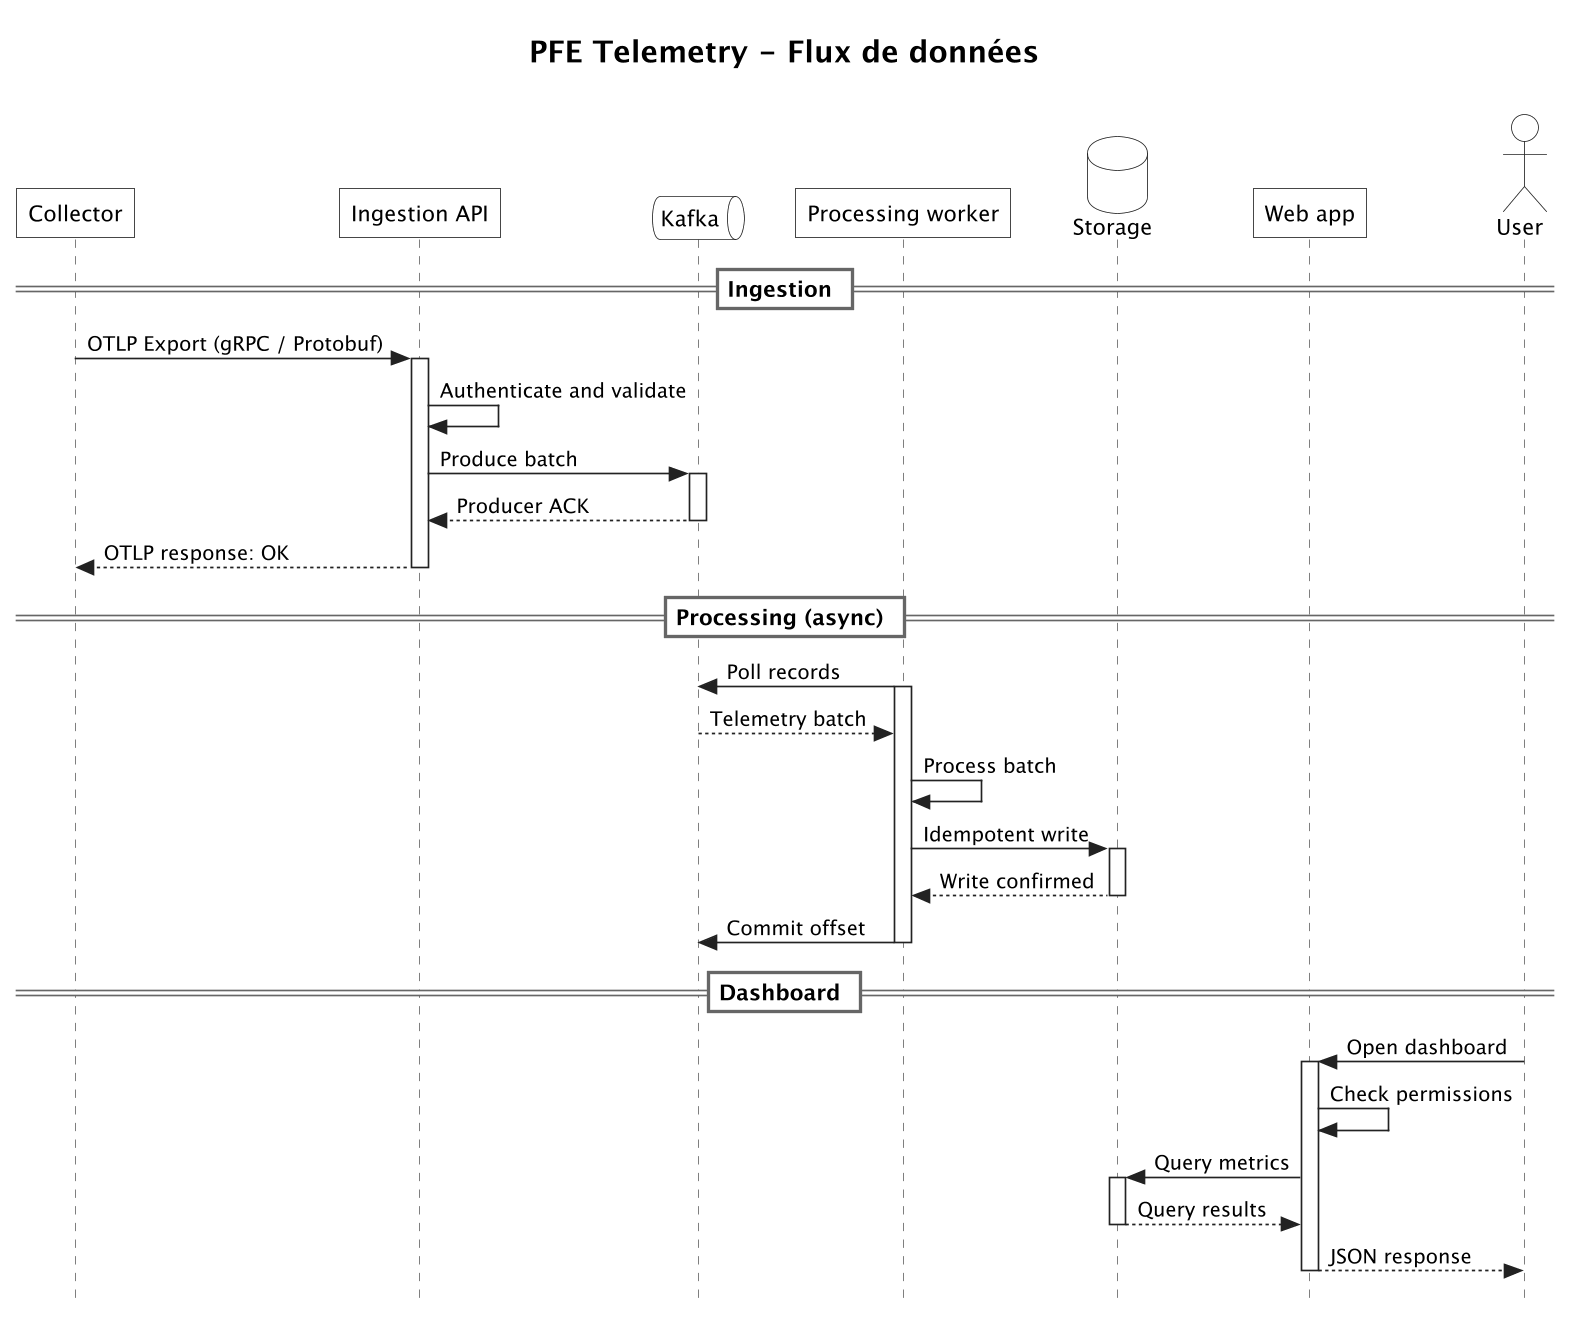
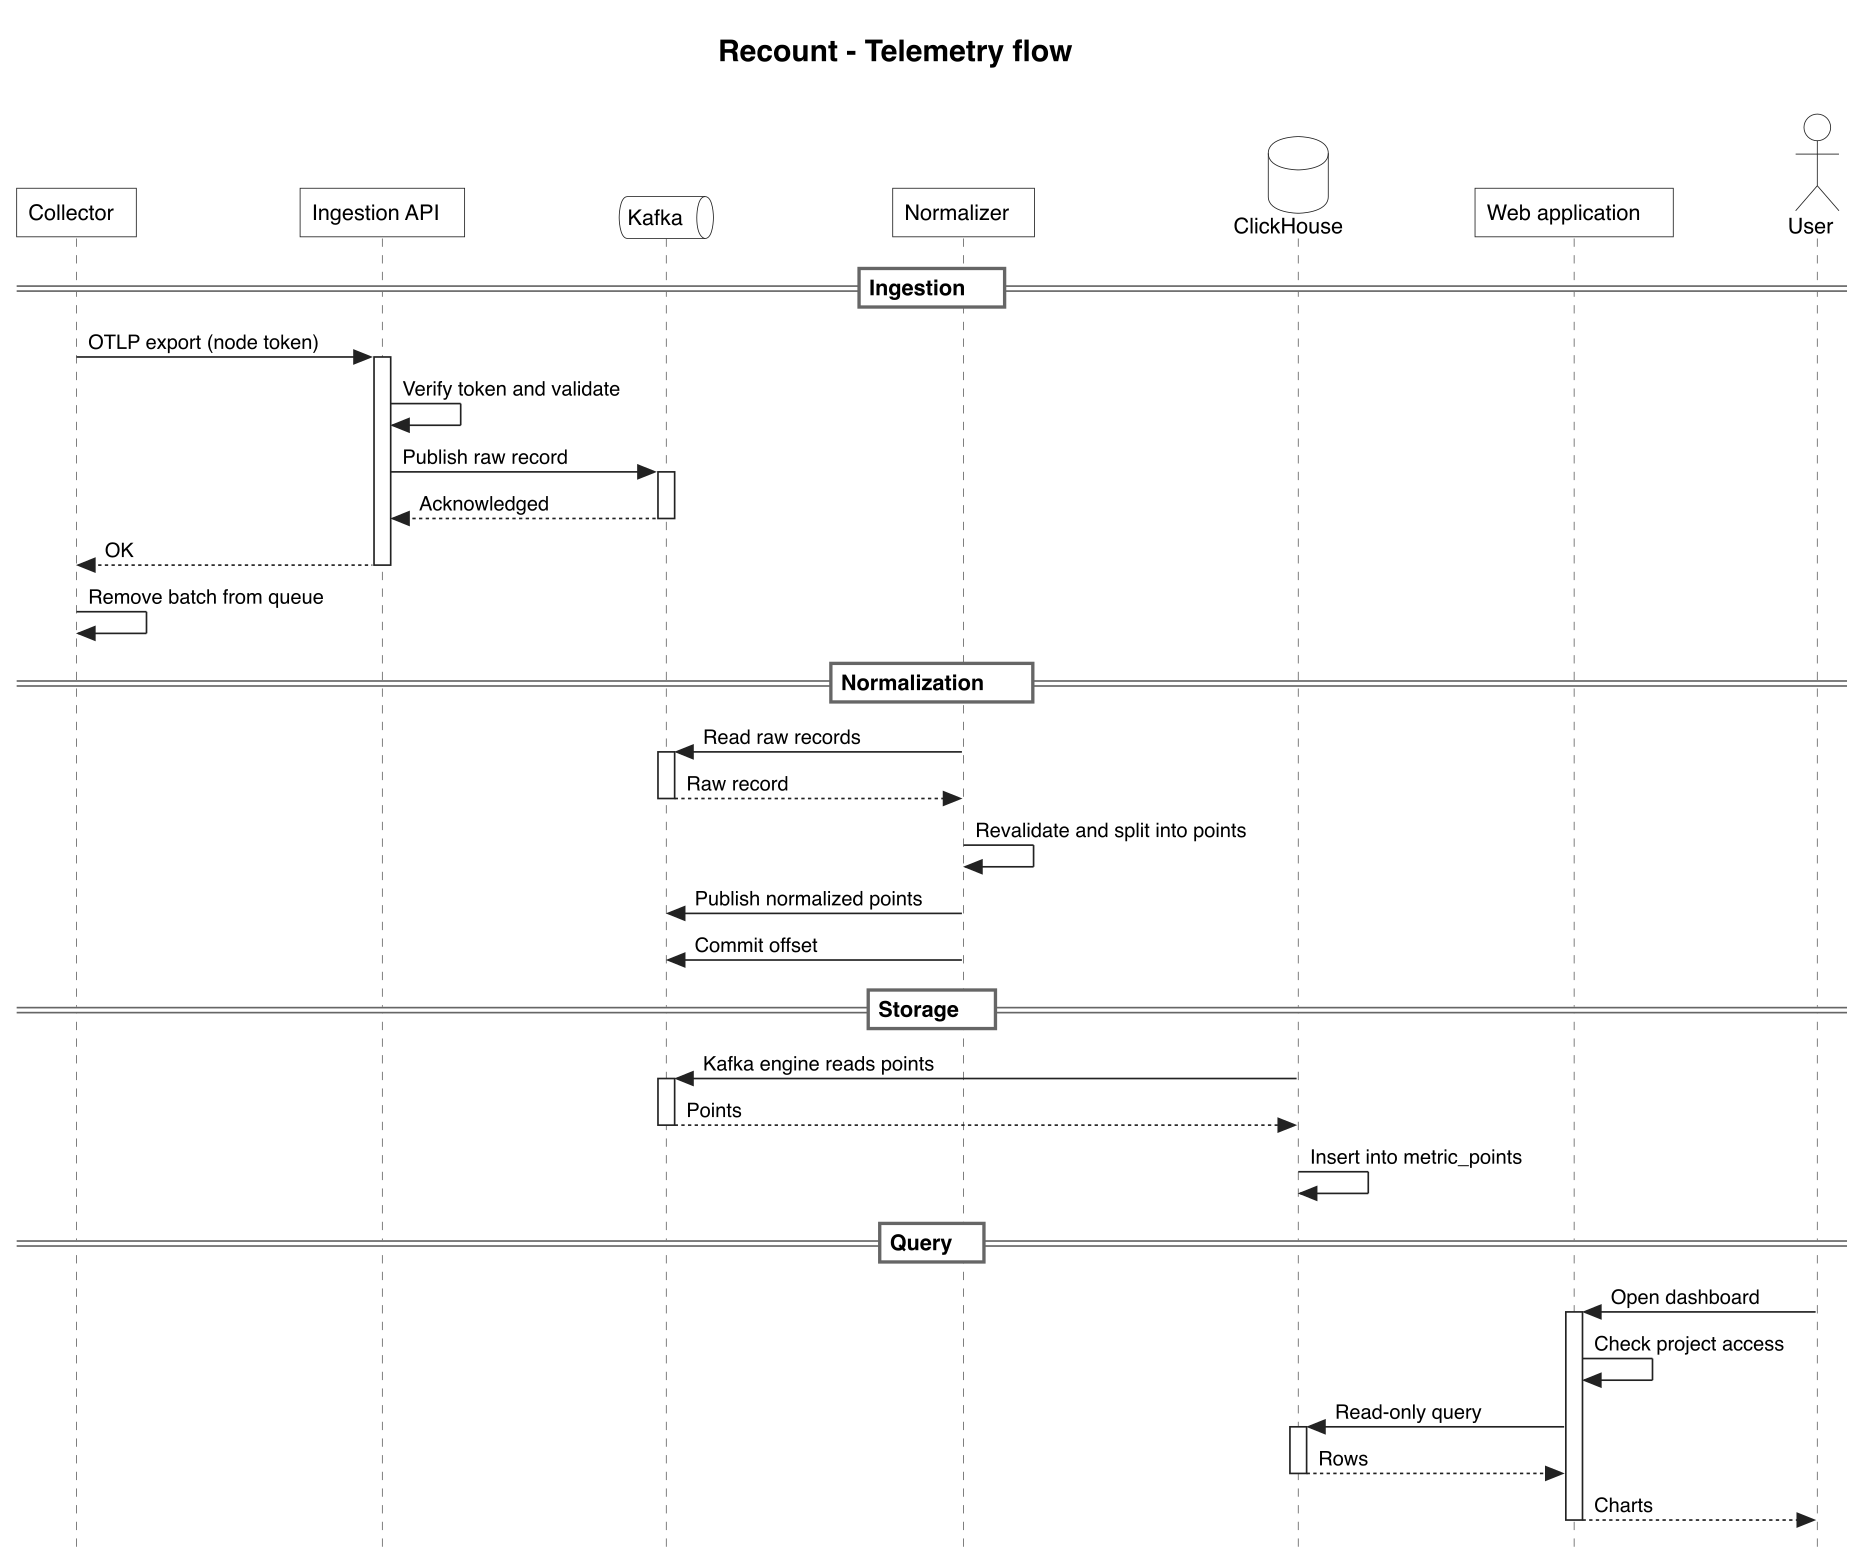
docs: redraw the architecture diagrams for the current system

diff --git a/docs/architecture.md b/docs/architecture.md
@@ -68,4 +68,14 @@ Validate semantic fixtures separately from real Kafka/MV replay, poison, checkpo
 
 ## Local diagram sources
 
-Editable [current-architecture](current-architecture.puml), [telemetry-flow](telemetry-flow.puml) and [telemetry-retry](telemetry-retry.puml) PlantUML drafts and their rendered files are retained with shared styling in `diagram-style.iuml`. Rendering tools are not managed by this repository. Those drafts predate the current implementation and must be updated before being used as architecture references; the flow above describes the current services.
+PlantUML sources and their rendered PNG/SVG files share styling in `diagram-style.iuml`. Rendering tools are not managed by this repository.
+
+| Diagram                                               | Shows                                                     |
+| ----------------------------------------------------- | --------------------------------------------------------- |
+| [current-architecture](current-architecture.puml)     | Components and their connections                          |
+| [deployment](deployment.puml)                         | Where each component runs                                 |
+| [telemetry-flow](telemetry-flow.puml)                 | One upload from collector to dashboard                    |
+| [telemetry-retry](telemetry-retry.puml)               | A retried upload stored once                              |
+| [execution-participants](execution-participants.puml) | How a labelled process joins an execution                 |
+| [application-access](application-access.puml)         | Organizations, projects, roles and their resources        |
+| [delivery-pipeline](delivery-pipeline.puml)           | Checks, tests, build and approved deployment after a push |
